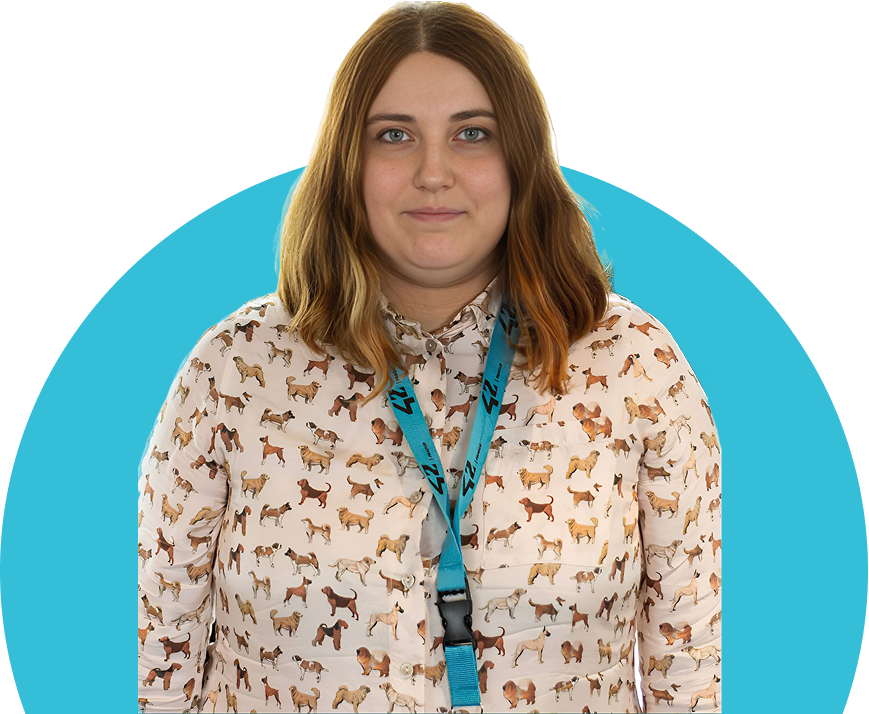
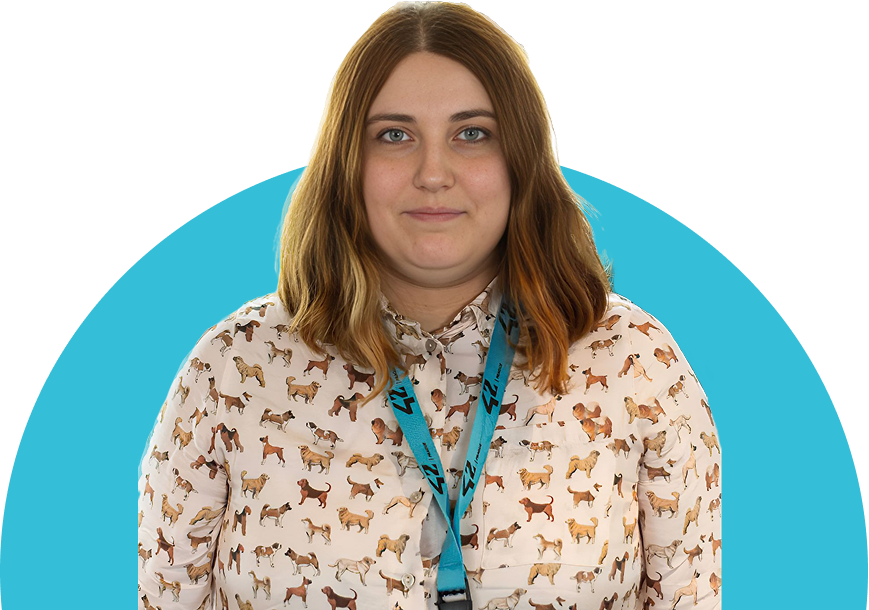
Crop circle flat at bottom + remove gap before ticker (#14)
https://claude.ai/code/session_0173n8ZfmyqeYPMFHEtf1ca8

diff --git a/index.html b/index.html
@@ -74,7 +74,7 @@
     align-items: center;
     justify-content: center;
     text-align: center;
-    padding: 8rem 2rem 2rem;
+    padding: 8rem 2rem 0;
     max-width: 860px;
     margin: 0 auto;
     gap: 0;
@@ -132,11 +132,14 @@
   .hero-visual {
     opacity: 0;
     animation: fadeUp 0.8s ease forwards 0.5s;
+    display: block;
+    line-height: 0;
   }
 
   .hero-visual img {
     width: 420px;
     height: auto;
+    display: block;
   }
 
   /* BUTTONS */